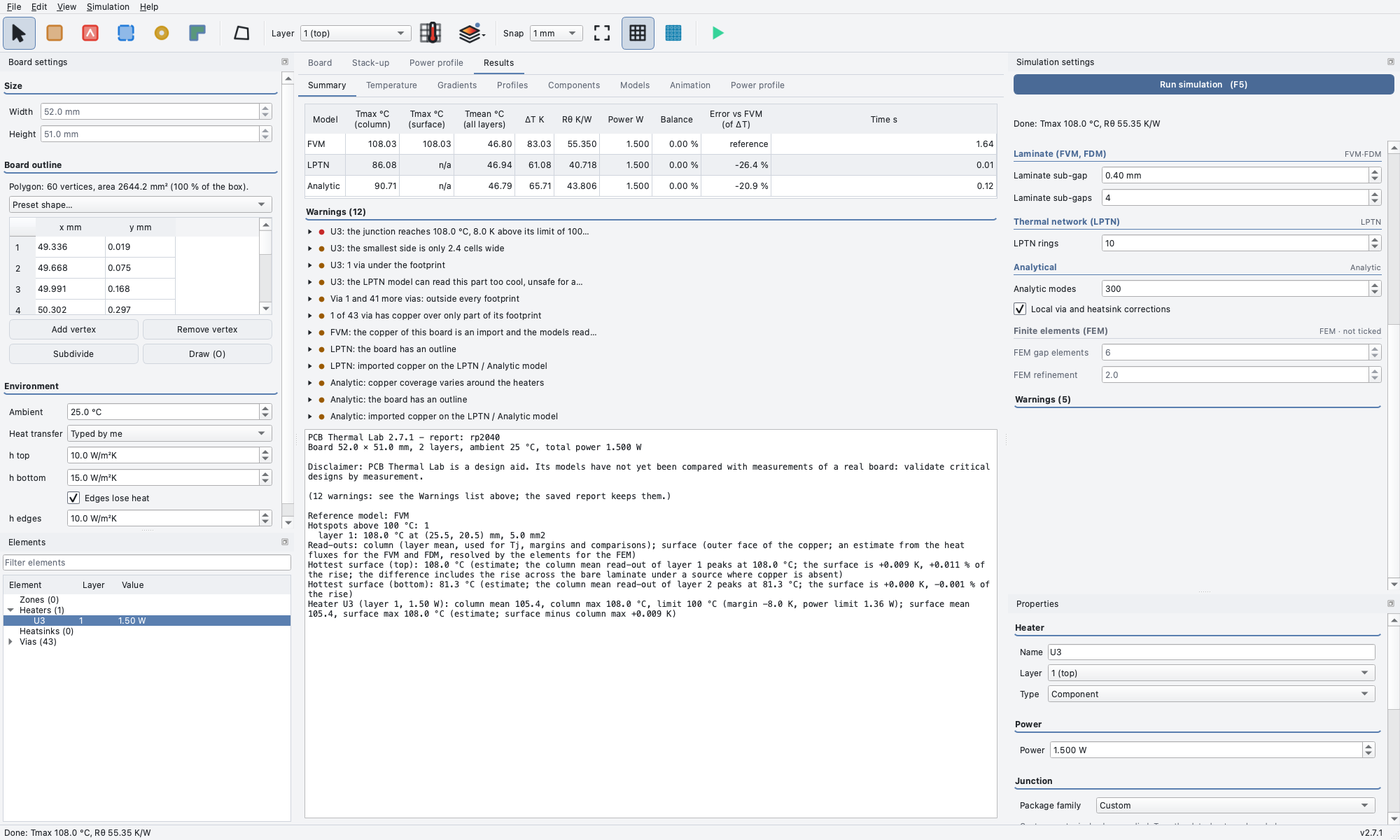
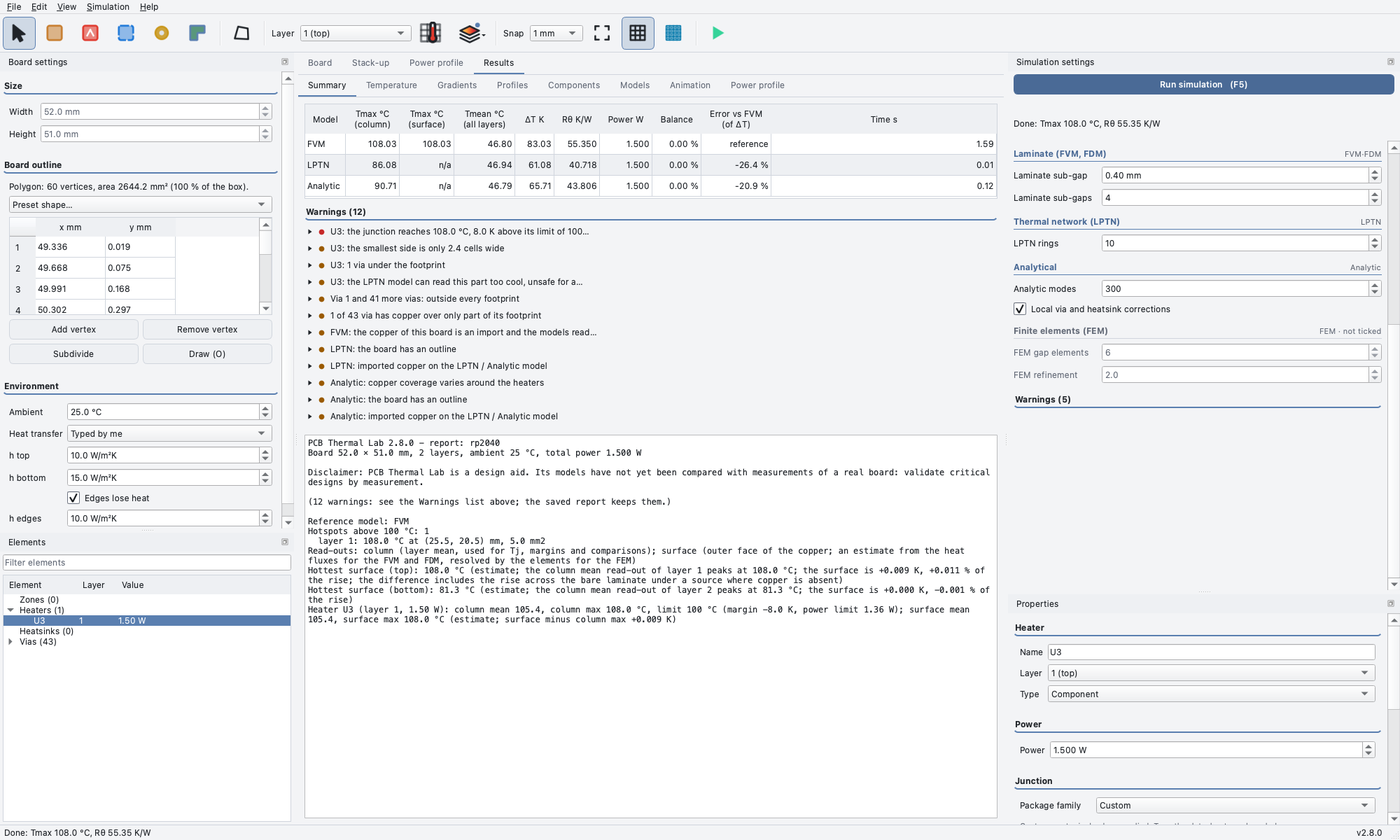
Add room between the Warnings box and the report on the Summary page
The accordion keeps an 8 px bottom margin so it is not stuck to the
report console; it disappears with the box when there are no notes.
Display only. Test in test_summary_table.py; the two Summary pictures
are regenerated.

Claude-Session: https://claude.ai/code/session_01XgeLDd5tWg6CEJL9TQpCpU

Changed region(s): [[0.215, 0.4952, 0.7064, 0.7429], [0.9521, 0.9905, 0.9829, 1.0]]

diff --git a/tests/test_summary_table.py b/tests/test_summary_table.py
@@ -172,3 +172,35 @@ def test_warnings_are_ordered_junction_then_warnings_then_notes(qtbot):
     acc.set_warnings([note1, alert, note2, junction, alert2])
     assert [str(r.warning) for r in acc.rows] == [str(w) for w in (junction, alert, alert2, note1, note2)]
     assert "°C" in acc.rows[0].title_label.text() and "degC" not in acc.rows[0].title_label.text()
+
+
+@pytest.mark.parametrize("theme", ["dark", "light"])
+@pytest.mark.parametrize("size", [(1200, 800), (1500, 900)])
+def test_the_warnings_box_does_not_touch_the_report_console(qtbot, tmp_path, size, theme):
+    """!
+    @brief On the Summary page the Warnings box keeps a gap of SUMMARY_WARNINGS_GAP_PX above the report console, which keeps a useful height.
+    @param qtbot pytest-qt fixture.
+    @param tmp_path Temporary folder.
+    @param size Window size (w, h) in px.
+    @param theme Theme name.
+    """
+    from PySide6.QtCore import QPoint
+    from pcbthermal.gui.results_view import SUMMARY_WARNINGS_GAP_PX
+    win = _window(qtbot, tmp_path, *size)
+    if hasattr(win, "set_theme"):
+        win.set_theme(theme)
+    view = win.results
+    run = simulate(example_board(), SolverOptions(models=MODELS, cell_mm=2.0))
+    view.set_simulation(run)
+    view._show_warnings(["Test note: some text of the note that the box lists."])      # Shown whatever the example raises
+    view.warnings.setVisible(True)
+    view.tabs.setCurrentIndex(0)
+    win.tabs.setCurrentIndex([win.tabs.tabText(i) for i in range(win.tabs.count())].index("Results"))
+    qtbot.wait(200)
+    assert view.warnings.isVisible()
+    top = view.report.mapTo(view, QPoint(0, 0)).y()
+    # The accordion's own bottom margin is the gap: its box ends that many px above the console
+    box = view.warnings.box
+    bottom = box.mapTo(view, QPoint(0, box.height())).y()
+    assert top - bottom >= SUMMARY_WARNINGS_GAP_PX
+    assert view.report.height() >= 120

diff --git a/pcbthermal/gui/results_view.py b/pcbthermal/gui/results_view.py
@@ -58,6 +58,7 @@ def _paint_figure(fig, name):
 
 
 MIN_SECTION = 56   # Logical px: the narrowest column of a results table
+SUMMARY_WARNINGS_GAP_PX = 8   # Logical px between the Warnings box and the report console on the Summary page (the 8 px the dock leaves between boxes)
 
 
 def _table(headers):
@@ -657,6 +658,8 @@ class ResultsView(QWidget):
         self.report.setPlaceholderText("No results yet. Draw at least one heater with a power above zero on the Board tab and press Run simulation (F5): "
                                        "the table above compares the models and the report of the run appears here.")
         self.report.setStyleSheet("font-family: Menlo, Consolas, monospace;")
+        # Room under the Warnings box so it is not stuck to the report console; a margin of the (hidden when empty) accordion, so no gap shows without notes
+        self.warnings.layout().setContentsMargins(0, 0, 0, SUMMARY_WARNINGS_GAP_PX)
         sl.addWidget(self.model_table)
         sl.addWidget(self.warnings)
         sl.addWidget(self.report, 1)

diff --git a/CHANGELOG.md b/CHANGELOG.md
@@ -34,7 +34,7 @@ MAJOR for incompatible changes, MINOR for new features, PATCH for fixes. Release
 ### Changed
 
 - **Differences are written in K, absolute temperatures in °C** (`feature/gui-results-warnings`, rule of `releases/2.8.0/fem-model/UNITS_DELTA_T.md`; text only, the JSON field `threshold_c` keeps its name): `ΔT K` and `Margin K` in the tables, `Osc. K`, the oscillation threshold box (`Ignore oscillations below ... K`), the oscillation and ripple lines of the text and Markdown reports and of the profile results, the guide.
-- **Results and warnings without cuts at 1200 x 800** (`feature/gui-results-warnings`, from `releases/2.8.0/fem-model/GUI_GENERAL_REVIEW.md`; display only, no number moves): the Components tables take the same fix as the Summary (columns as wide as their header or text, a horizontal scroll bar, the last column stretches); the map title is on two lines; the Power profile page stacks its two panes in a narrow window (no horizontal scroll bar); the last line of the About box is no longer cut; the legends of the model and heater bar charts sit beside the plot, not over the bars; the legend of the cuts says `LPTN` (one table of short names, `results.MODEL_SHORT`, also the card of the map); the warning list is ordered by severity (a junction above its limit, then warnings, then notes; the order of the checks within each) and titles say `°C`; the severity dot is drawn by one helper (`gui/dots.py`); a row title drops its leading `Name:` when the label at the end of the row names the element, and the full title is in its tooltip.
+- **Results and warnings without cuts at 1200 x 800** (`feature/gui-results-warnings`, from `releases/2.8.0/fem-model/GUI_GENERAL_REVIEW.md`; display only, no number moves): the Components tables take the same fix as the Summary (columns as wide as their header or text, a horizontal scroll bar, the last column stretches); the map title is on two lines; the Power profile page stacks its two panes in a narrow window (no horizontal scroll bar); the last line of the About box is no longer cut; the legends of the model and heater bar charts sit beside the plot, not over the bars; the legend of the cuts says `LPTN` (one table of short names, `results.MODEL_SHORT`, also the card of the map); the warning list is ordered by severity (a junction above its limit, then warnings, then notes; the order of the checks within each) and titles say `°C`; the severity dot is drawn by one helper (`gui/dots.py`); a row title drops its leading `Name:` when the label at the end of the row names the element, and the full title is in its tooltip. The Summary page leaves a little more room (8 px) between the Warnings box and the report console (`fix/summary-warnings-spacing`).
 - **The Summary table names its read-outs and is formatted once** (`feature/gui-results-warnings`, decision a+ of the review `releases/2.8.0/fem-model/SUMMARY_TABLE_REVIEW.md`; display and text only, no number moves, frozen numbers unchanged): the headers are in two lines (`Tmax °C (column)`, `Tmean °C (all layers)`, `ΔT K`, `Error vs FVM (of ΔT)`; `ΔT K` and `Rθ K/W` (a difference is written in K, an absolute temperature in °C; `ΔT [K]` also in the text and Markdown reports instead of `ΔT [°C]`, and no more `dT C` and `Rth`)), the columns are as wide as their content with a horizontal scroll bar in a narrow window (nothing cut at 1200 x 800), the energy balance is a percentage with a floor (`0.00 %` instead of `+111.10E-15`; the raw value is in the tooltip of the cell and in `summary.json`), the table has as many rows as models, the tooltip of Tmean says 'all copper layers' (not 'over the board') and the Lumped Tmax one says it is the peak of the ring network. One column definition (`api.SUMMARY_COLUMNS`, `Simulation.summary_grid`) feeds the window, `to_text` (aligned, widths from the longest cell) and `to_markdown`; the on-screen report no longer repeats the table (`report.txt` and the command line keep it). New column `Tmax °C (surface)`: the top-face peak of the surface read-out for the FVM, FDM and FEM, `n/a` for the other models (left out when no model has one; `t_max_surface_c` in the rows of `summary.json`).
 - **Warning rows with a severity dot and the element label** (`feature/gui-results-warnings`, variant V1 chosen by the maintainer after the review `releases/2.8.0/fem-model/WARNING_SELECT_REVIEW.md`; display only, no number moves): each row of the `Warnings (N)` box (Simulation settings and Results summary) has a round dot in the colours of the memory verdicts (red for a warning, amber for a note) instead of the triangle and circle badges, and a warning about an element carries at the end of its row a label with the icon of the element type and its name, which selects the element (one click, closed or open row; Enter or Space from the keyboard; a long name is shortened with the full name in the tooltip; accessible name `Select heater Q1 on the board`). It replaces the `Select heater U1` button of the opened row. Gaps of 2 px, dock font.
 - **The FEM solve is faster; the frozen records hold the surface read-out** (`fix/fem-solve-speed`; no program number moves beyond 1e-9 K): the conjugate-gradient tolerance of `femcore` is 1e-10 instead of 1e-12 (the true residual reached is unchanged: 2.2e-10 before and 2.3e-10 after on the example board, 4.4e-9 after the restart on the 828 000-unknown plate where the old default gave 5.0e-9) and the element assembly uses the closed-form 3 x 3 determinant and inverse and batched matrix products; the example board at 1 mm takes 11.7 s instead of 16.0 s (assembly 1.2 s instead of 3.6 s). The pending FEM records are regenerated with the surface read-out and the hottest node, and a new pending file `surface-records.json` adds the surface read-out of the FVM and FDM records (new metrics only); the FEM records also hold the metal block, as the FVM and FDM.

diff --git a/docs/decisions-log.md b/docs/decisions-log.md
@@ -4,6 +4,8 @@ The record of the decisions of PCB Thermal Lab, newest first, with the reason. I
 
 ## Entries
 
+- **Room between the Warnings box and the report on the Summary page** (`fix/summary-warnings-spacing`; maintainer's one small change after approving the page): the accordion keeps an 8 px bottom margin (`results_view.SUMMARY_WARNINGS_GAP_PX`; hidden with the box when there are no notes, the console keeps its stretch); display only, no number moves; test in `tests/test_summary_table.py`, pictures `results_summary*.png` regenerated.
+
 - **Final tree of 2.8.0 tested** (tester on `tmp/merge-final`; merged into `development` by the maintainer agent): FEM interface pad correction (film on the pad walls removed; the pad conducts only through its thickness) merged with the release commit; two FEM frozen records regenerated (`finned_block|fem|1` and `|2`, +0.293 K); the 3D solid interface pad has the same weaker defect (0.6 % at 5e-3): fix in 2.9.0 (`releases/2.9.0/PLAN.md`, e16). Whole battery: 4050 passed, 12 skipped (8 gates + 4 pypdfium2 missing), 2 xfailed, 1 warning on the final tree of 2.8.0 (whole battery 55 min 12 s, real-board environment proven loaded; frozen 413 (332 records), compat 5 + 17, secrets 4, published 14 + 1 xfailed, three random-action tests passed). No tag, no merge into `main`: the maintainer decides.
 
 - **FEM interface pad walls carry no film** (found by the final opinion of 2.8.0 against the 3D solid; `fix/fem-interface-pad-film`): the FEM put the film of the block walls also on the side walls of the interface pad, a fictitious layer whose height is the contact resistance times 1 W/mK; it read cold, 1.5 to 3 % of the rise at the default contact resistance and up to 13 % at 5e-3 m2K/W. Now only the metal slabs of a block carry a wall film (`femmesh.build`), as in the 3D solid; the FEM is new in 2.8.0, so this is not a fix of a released bug. Two regression tests (column closed form 0.02 K, 3D solid); the frozen records `finned_block|fem|1` and `|2` move. **Review** (`releases/2.8.0/fem-model/REVIEW_FEM_PAD_FILM.md`): the pad also conducted in its plane at 1 W/mK over its fictitious height, so a pad over a part on the top face spread heat sideways (10.5 % of the rise below the FVM at 5e-2 m2K/W, 2.5 % at 5e-3); the pad now conducts across only (`femmesh.K_PAD_INPLANE` = 1e-3 W/mK) and reads 0.8 % below the FVM, the plain-board gap; a third test. The 3D solid keeps the same artefact in a milder form (its pad cell centre sits at mid height): 0.6 % of the rise at 5e-3 on that board; left as a question for the maintainer (it would move 3D frozen numbers).
